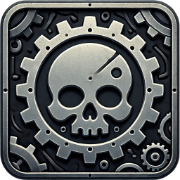
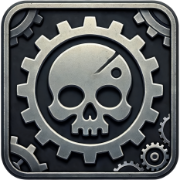
Updated the project images and manifest

diff --git a/app/layout.tsx b/app/layout.tsx
@@ -47,9 +47,10 @@ export const metadata = {
   },
   icons: {
     icon: [
-              { url: '/favicon.ico', sizes: 'any' },
+      { url: '/favicon.ico', sizes: 'any' },
       { url: '/images/favicon-16x16.png', sizes: '16x16', type: 'image/png' },
       { url: '/images/favicon-32x32.png', sizes: '32x32', type: 'image/png' },
+      { url: '/images/favicon-96x96.png', sizes: '96x96', type: 'image/png' },
     ],
     apple: { url: '/images/apple-touch-icon.png' },
   },
